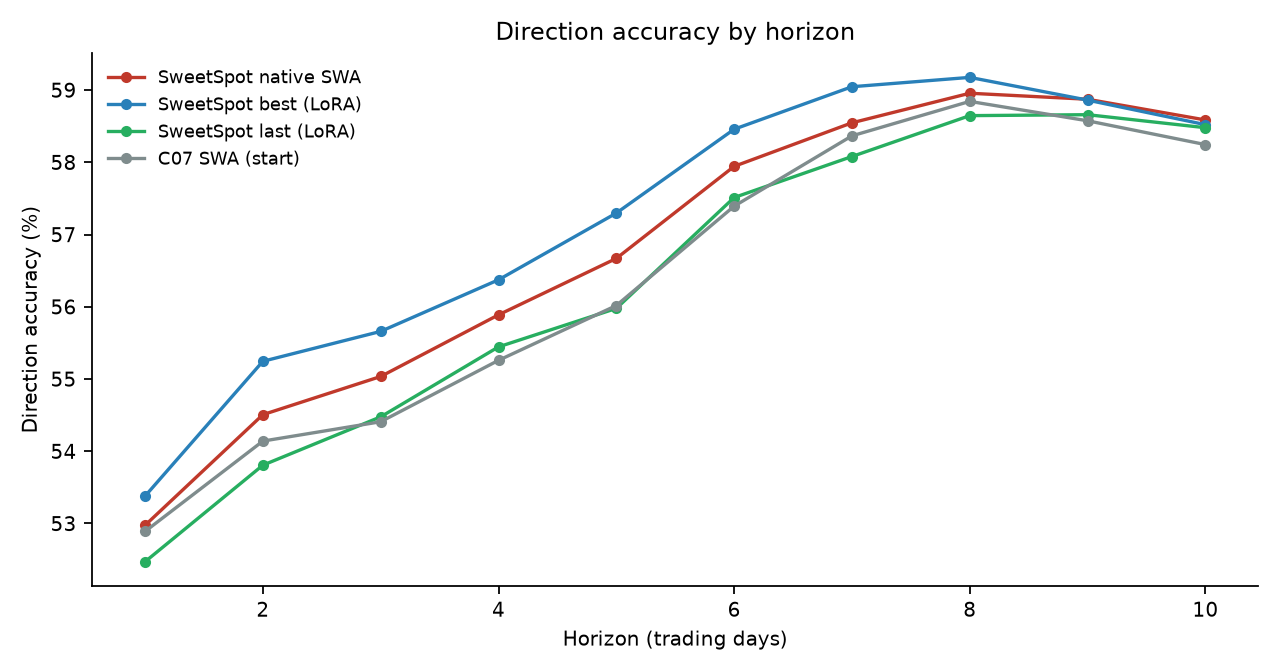
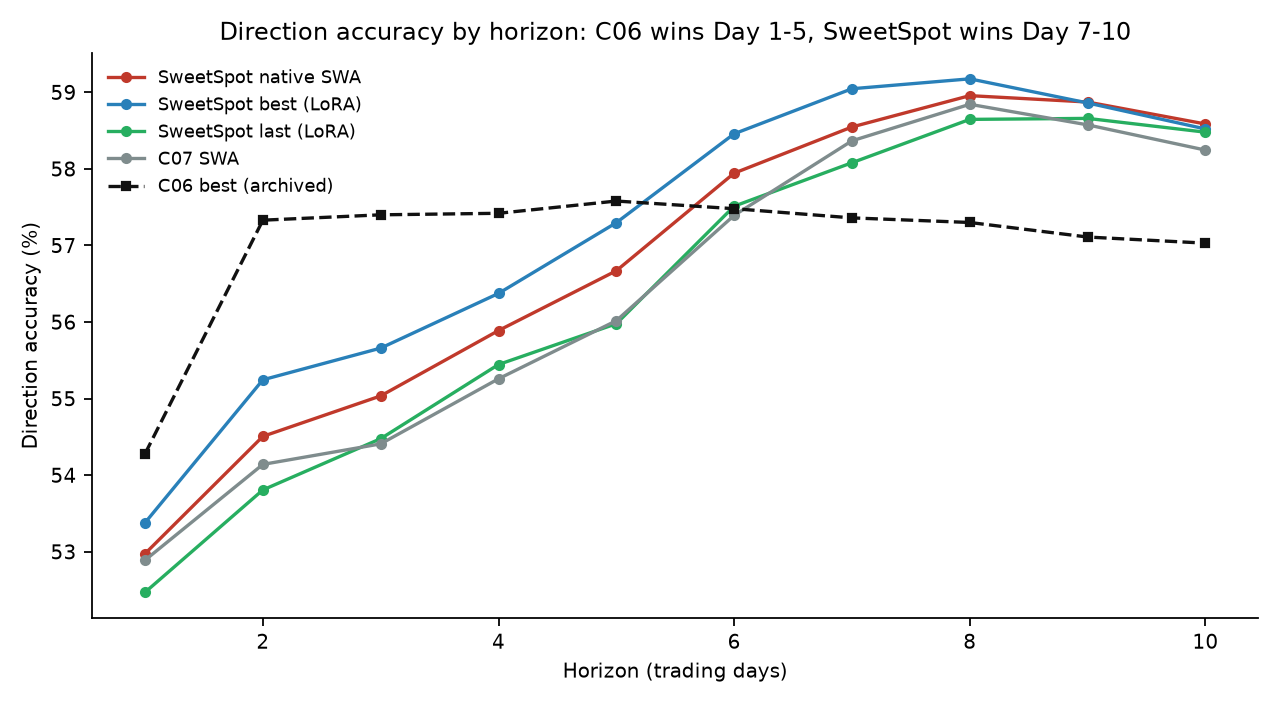
docs(timesfm3): add C06 comparison and majority-class baseline analysis
- Second-period 57.5% DirAcc is only +1.32pp over the 56.17% majority-class baseline
- C06 full-sample: 57.03% DirAcc, 0.1383 IC, but stronger Day 1-5
- Regenerate horizon chart with C06

diff --git a/finetune/timesfm3_v11_trajectory/docs/sweetspot_native_oos_analysis_cn.md b/finetune/timesfm3_v11_trajectory/docs/sweetspot_native_oos_analysis_cn.md
@@ -105,6 +105,31 @@
 
 原生 SWA 的 TPR/TNR 最均衡；SS last 靠“多预测上涨”换取更高的 TPR，但在下跌市里 TNR 只有 54.6%。
 
+### 5.1 57.5% 不等于 57.5% 的能力：先减去多数类基线
+
+| 期间 | 真实上涨率 | 多数类 | 多数类基线 | native DirAcc | native 超额 | native BalancedAcc | C07 SWA DirAcc | C07 超额 |
+|---|---:|---|---:|---:|---:|---:|---:|---:|
+| 全样本 | 46.80% | 下跌 | 53.20% | 58.59% | **+5.39pp** | 58.94% | 58.25% | +5.05pp |
+| 08-03 ~ 08-20 | 51.05% | 上涨 | 51.05% | 60.15% | **+9.11pp** | 59.95% | 60.00% | +8.95pp |
+| 08-21 ~ 09-17 | 43.83% | 下跌 | **56.17%** | 57.49% | **+1.32pp** | 56.17% | 57.02% | +0.85pp |
+
+第二段 57.49% 看起来不错，但“恒猜下跌”的多数类基线已经是 **56.17%**；相对基线的真实增量只有 **+1.32pp**。同时 TPR 只有 **41.5%**、TNR 70.8%——模型是在做“偏空的方向判断”（predPos 34.6%，真实上涨率 43.8%），不是“选出上涨股”。第一段基线 51.05%，增量 +9.11pp，才是真本事。
+
+### 5.2 C06 对比（存档聚合值）
+
+| 模型 | DirAcc | 多数类超额 | Pooled IC | 日均 IC | 年化 ICIR | 正 IC 日 | AmpRatio | 综合分 |
+|---|---:|---:|---:|---:|---:|---:|---:|---:|
+| C06 best | 57.03% | +3.83pp | 0.1383 | 0.0685 | 8.65 | 70.6% | 0.7300 | 0.6395 |
+| C07 best | 58.42% | +5.22pp | 0.1557 | 0.0685 | 8.15 | 67.6% | 0.8419 | 0.6621 |
+| C07 SWA | 58.25% | +5.05pp | 0.1608 | 0.0720 | 8.56 | 67.6% | 0.8078 | 0.6628 |
+| SweetSpot best | 58.52% | +5.33pp | 0.1702 | 0.0908 | 10.62 | 73.5% | 0.8099 | 0.6703 |
+| SweetSpot last | 58.48% | +5.28pp | 0.1772 | 0.0994 | 11.34 | 70.6% | 0.8435 | 0.6734 |
+| SweetSpot native | 58.59% | +5.39pp | 0.1748 | 0.0956 | 10.84 | 70.6% | 0.8296 | 0.6733 |
+
+C06 的整体方向/IC 低于 C07/SweetSpot（超额 +3.83pp vs +5.0~5.4pp；IC 0.1383 vs 0.1557~0.1772），但它不是全维度落后：**Day 1~5 的短线胜率 C06 更强**（54.28 / 57.33 / 57.40 / 57.42 / 57.58），native 为 52.98 / 54.51 / 55.04 / 55.89 / 56.67；Day 7~10 native 反超。C06 更像“短持有期”模型，C07/SweetSpot 更像“中长持有期”模型。
+
+> C06 行为存档报告聚合值（同一 175,428 条面板，`market_natural_up_rate=46.8038%` 完全一致）；逐样本 `npz` 正在 Kaggle 补跑，balanced accuracy / 分区间 / TopK 待补。
+
 ![图3 分持有期方向胜率](figures/sweetspot_native/fig3_horizon_acc.png)
 
 分持有期看，原生 SWA 在 Day 1~10 每一天都略高于 C07 SWA（+0.09 ~ +0.65pp），但幅度很小；Day 10 的 58.59% 与 C07 的 58.25% 在配对 bootstrap 下 CI 为 [-0.05pp, +0.70pp]，仍然跨 0。
@@ -170,6 +195,10 @@
 **工程结论**：原生 SWA 可以交付——零 LoRA、单次前向、1.26GB 稠密模型，方向与截面指标都不低于 C07 SWA，且比 SS best/last 更均衡。产物在 Kaggle `ibcaoo/kronos-timesfm3-v11-sweetspot-merged-model-export`，评估在 `...-merged-oos-audit`，本地只保留 11MB npz。
 
 **研究结论**：OOS 的截面 alpha 是** regime-concentrated** 的：8 月反弹市强，9 月震荡/回落市接近零。当前不能把它当成稳定选股信号上线；可以用于“方向/仓位 overlay”，但不适合单独做 TopK 多空。
+
+**方向胜率的口径提醒**：全文的 DirAcc 必须同时看多数类基线。全样本 58.59% 相对 53.20% 的“恒猜下跌”基线是 +5.39pp；第二段 57.49% 相对 56.17% 的基线只有 **+1.32pp**，且 TPR 仅 41.5%——这是偏空的方向判断，不是选股能力。
+
+**C06 的定位**：整体 DirAcc/IC 低于 C07/SweetSpot（超额 +3.83pp、IC 0.1383），但 Day 1~5 的短线胜率更强（Day 2~5 约 57.3~57.6%）。如果未来做短持有期/事件驱动，C06 值得单独保留；做 10 日 TopK 则 C07/SweetSpot 更合适。
 
 **下一步优先级**：
 
